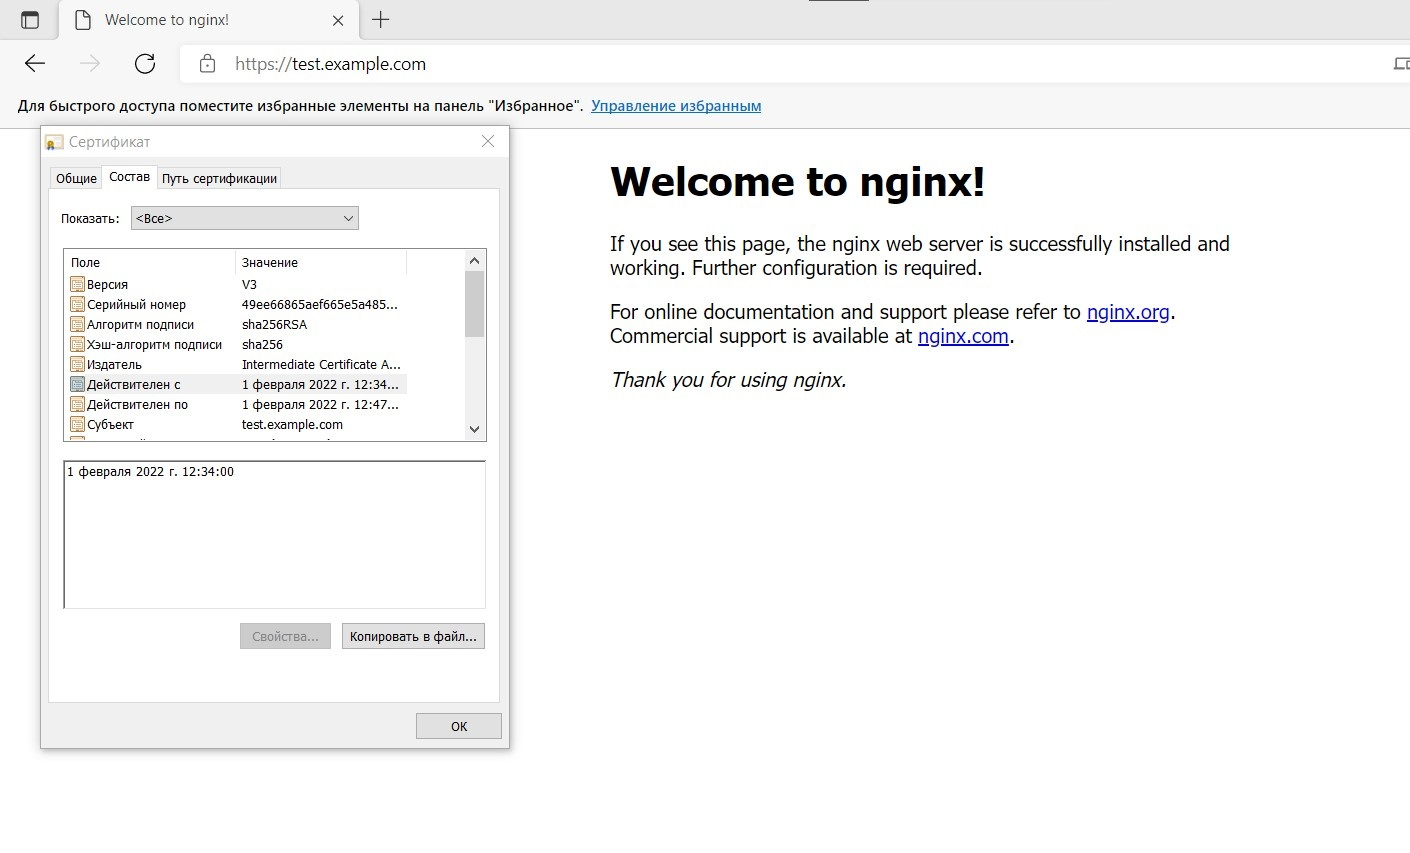
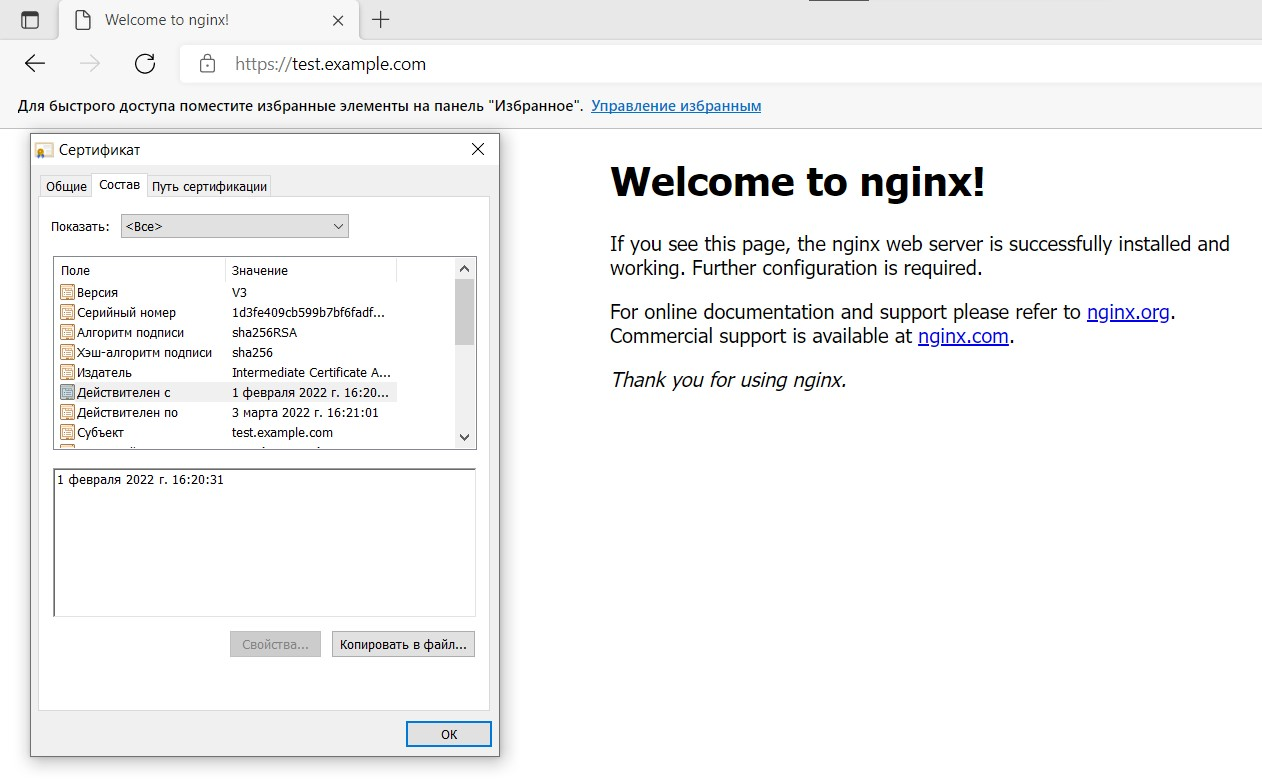
Correction 0.7

diff --git a/Homework/kurs/readme.md b/Homework/kurs/readme.md
@@ -208,10 +208,10 @@ USER=hello
 VAULT_TOKEN=root
 VAULT_ADDR=http://127.0.0.1:8200
 
-34 12 1 * * /home/hello/CA_Rescript.sh  >> /home/hello/Rescript.log 2>&1
+20 16 1 * * /home/hello/CA_Rescript.sh  >> /home/hello/Rescript.log 2>&1
 
 ```
-По планировщику каждый месяц в 12:34 будет сгенерирован новый сертификат. Ждём 12:34 и проверяем сервер
+По планировщику каждый месяц 1 числа в 16:20 будет сгенерирован новый сертификат. Ждём 16:20 и проверяем сервер
 ![Перегенерация](rescript.jpg)
 
 
